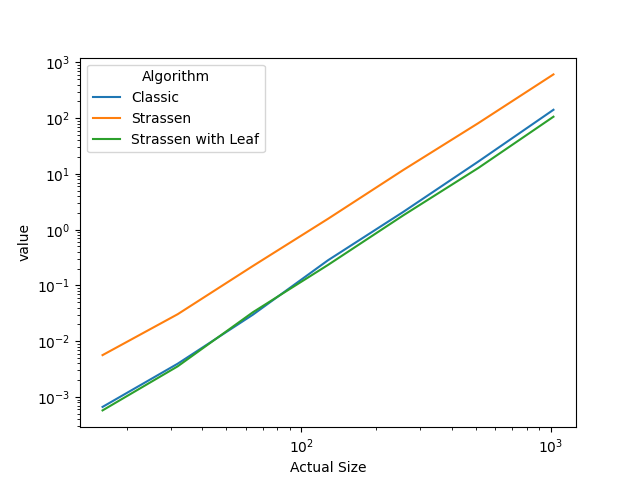
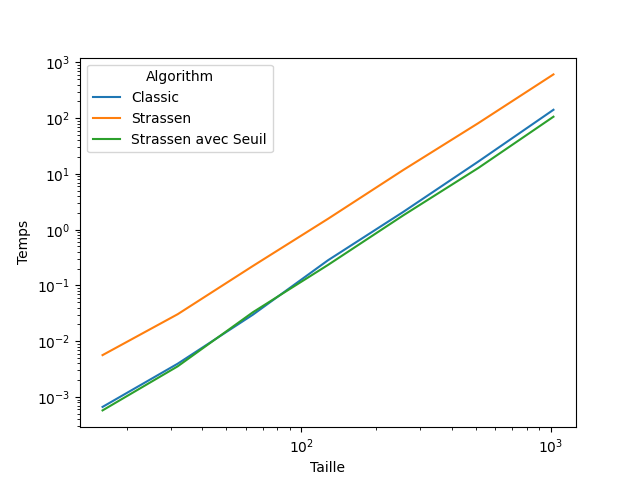
Test constante

diff --git a/TP1/test_puissance.py b/TP1/test_puissance.py
@@ -1,81 +1,19 @@
 import matplotlib.pyplot as plt
-import math
 import pandas as pd
-import numpy as np
 import seaborn as sns
 
 df = pd.read_csv("data.csv").groupby(['Algorithm', 'Matrix Size']).mean(numeric_only=True).reset_index()
 
 res = df.pivot(index='Matrix Size', columns='Algorithm', values='Execution Time').reset_index()
-res['Actual Size'] = res['Matrix Size'].apply(lambda x: 2 ** x)
+res['Taille'] = res['Matrix Size'].apply(lambda x: 2 ** x)
 
 
-res = res[['Actual Size', 'Classic', 'Strassen', 'Strassen with Leaf']]
+res = res[['Taille', 'Classic', 'Strassen', 'Strassen avec Seuil']]
 
-# plot = sns.lineplot(x='Actual Size', )
-# plot.set(xscale='log')
-# plot.set(yscale='log')
-# plot.add_legend()
-# plt.show()
-
-# print(df)
-print(pd.melt(res, ['Actual Size']))
-
-plot = sns.lineplot(x='Actual Size', y='value', hue='Algorithm',
-             data=pd.melt(res, ['Actual Size']))
+plot = sns.lineplot(x='Taille', y='Temps', hue='Algorithm',
+             data=pd.melt(res, ['Taille'], value_name='Temps'))
 
 plot.set(xscale='log')
 plot.set(yscale='log')
 
 plt.savefig("plots/puissance_combined.png")
-
-exit()
-# df = pd.read_csv("leaf_data.csv").groupby(['Leaf Size', 'Matrix Size']).mean(numeric_only=True).reset_index()
-# df['Actual Size'] = df['Matrix Size'].apply(lambda val: 2 ** val)
-
-# leaf_sizes = [2 ** i for i in range(4, 11)]
-
-# for size in leaf_sizes:
-#     df2 = df.loc[df['Leaf Size'] == size]
-
-#     graph = sns.FacetGrid(df2, height=4, aspect=1)
-#     graph = graph.map(plt.plot, 'Actual Size', 'Execution Time')
-#     graph.set(xscale='log')
-#     graph.set(yscale='log')
-#     graph.add_legend()
-#     plt.savefig(f'plots/puissance_strassen_leaf_size_{size}.png')
-
-#     plt.close()
-
-# classic = df.loc[df['Algorithm'] == 'Classic']
-
-# graph = sns.FacetGrid(classic, height=4, aspect=1)
-# graph = graph.map(plt.plot, 'Actual Size', 'Execution Time')
-# graph.set(xscale='log')
-# graph.set(yscale='log')
-# graph.add_legend()
-# plt.savefig('plots/puissance_classic.png')
-
-# plt.close()
-
-# strassen = df.loc[df['Algorithm'] == 'Strassen']
-
-# graph = sns.FacetGrid(strassen, height=4, aspect=1)
-# graph = graph.map(plt.plot, 'Actual Size', 'Execution Time')
-# graph.set(xscale='log')
-# graph.set(yscale='log')
-# graph.add_legend()
-# plt.savefig('plots/puissance_strassen.png')
-
-# plt.close()
-
-# strassen_leaf = df.loc[df['Algorithm'] == 'Strassen with Leaf']
-
-# graph = sns.FacetGrid(strassen_leaf, height=4, aspect=1)
-# graph = graph.map(plt.plot, 'Actual Size', 'Execution Time')
-# graph.set(xscale='log')
-# graph.set(yscale='log')
-# graph.add_legend()
-# plt.savefig('plots/puissance_strassen_leaf.png')
-
-# plt.close()

diff --git a/TP1/main.py b/TP1/main.py
@@ -19,23 +19,23 @@ if __name__ == "__main__":
         A = parse_matrix(f"data/ex{i}_0")
         B = parse_matrix(f"data/ex{i}_1")
 
-        # multiply_t = timeit.timeit('multiply(A, B)', globals=globals(), number=num_exec) / num_exec
-        # strassen_t = timeit.timeit('strassen_multiply(A, B)', globals=globals(), number=num_exec) / num_exec
-        # strassen_leaf_t = timeit.timeit('strassen_multiply_leaf(A, B, 64)', globals=globals(), number=num_exec) / num_exec
+        multiply_t = timeit.timeit('multiply(A, B)', globals=globals(), number=num_exec) / num_exec
+        strassen_t = timeit.timeit('strassen_multiply(A, B)', globals=globals(), number=num_exec) / num_exec
+        strassen_leaf_t = timeit.timeit('strassen_multiply_leaf(A, B, 64)', globals=globals(), number=num_exec) / num_exec
 
-        # results.extend([
-        #     ['Classic', i, 0, multiply_t, "n^3"],
-        #     ['Strassen', i, 0, strassen_t, "n^3"],
-        #     ['Strassen with Leaf', i, 64, strassen_leaf_t, "n^3"],
-        # ])
+        results.extend([
+            ['Classic', i, 0, multiply_t, "n^3"],
+            ['Strassen', i, 0, strassen_t, "n^3"],
+            ['Strassen avec Seuil', i, 64, strassen_leaf_t, "n^3"],
+        ])
 
-        seuils = [2 ** i for i in range(4, 11)]
+        # seuils = [2 ** i for i in range(4, 11)]
 
-        for seuil in tqdm(seuils):
-            strassen_leaf_t = timeit.timeit(f'strassen_multiply_leaf(A, B, {seuil})', globals=globals(), number=num_exec) / num_exec
+        # for seuil in tqdm(seuils):
+        #     strassen_leaf_t = timeit.timeit(f'strassen_multiply_leaf(A, B, {seuil})', globals=globals(), number=num_exec) / num_exec
 
-            results.extend([
-                ['Strassen with Leaf', i, seuil, strassen_leaf_t, "n^3"],
-            ])
+        #     results.extend([
+        #         ['Strassen avec Seuil', i, seuil, strassen_leaf_t, "n^3"],
+        #     ])
 
     print_results(results[1:], headers)

diff --git a/TP1/test_constante.py b/TP1/test_constante.py
@@ -1,0 +1,25 @@
+import matplotlib.pyplot as plt
+import pandas as pd
+import seaborn as sns
+import numpy as np
+from functools import reduce
+
+df = pd.read_csv("data.csv").groupby(['Algorithm', 'Matrix Size']).mean(numeric_only=True).reset_index()
+
+res = df.pivot(index='Matrix Size', columns='Algorithm', values='Execution Time').reset_index()
+res['Taille'] = res['Matrix Size'].apply(lambda x: 2 ** x)
+
+res = pd.melt(res[['Taille', 'Classic', 'Strassen', 'Strassen avec Seuil']], 'Taille', value_name='Temps')
+
+for algo in ['Classic', 'Strassen', 'Strassen avec Seuil']:
+    df2 = res[res['Algorithm'] == algo]
+
+    # On applique f(x) à la taille en fonction de s'il s'agit de Strassen ou Classic
+    # Estimation Classic: O(n^3) et Estimation Strassen: O(n^log(7))
+    df2['Taille'] = df2['Taille'].apply(lambda x: x ** 3 if algo == 'Classic' else x ** 2.8074)
+
+    plot = sns.lineplot(x='Taille', y='Temps', hue='Algorithm',
+             data=df2)
+
+    plt.savefig(f"plots/constante_{'_'.join(algo.lower().split(' '))}.png")
+    plt.close()
